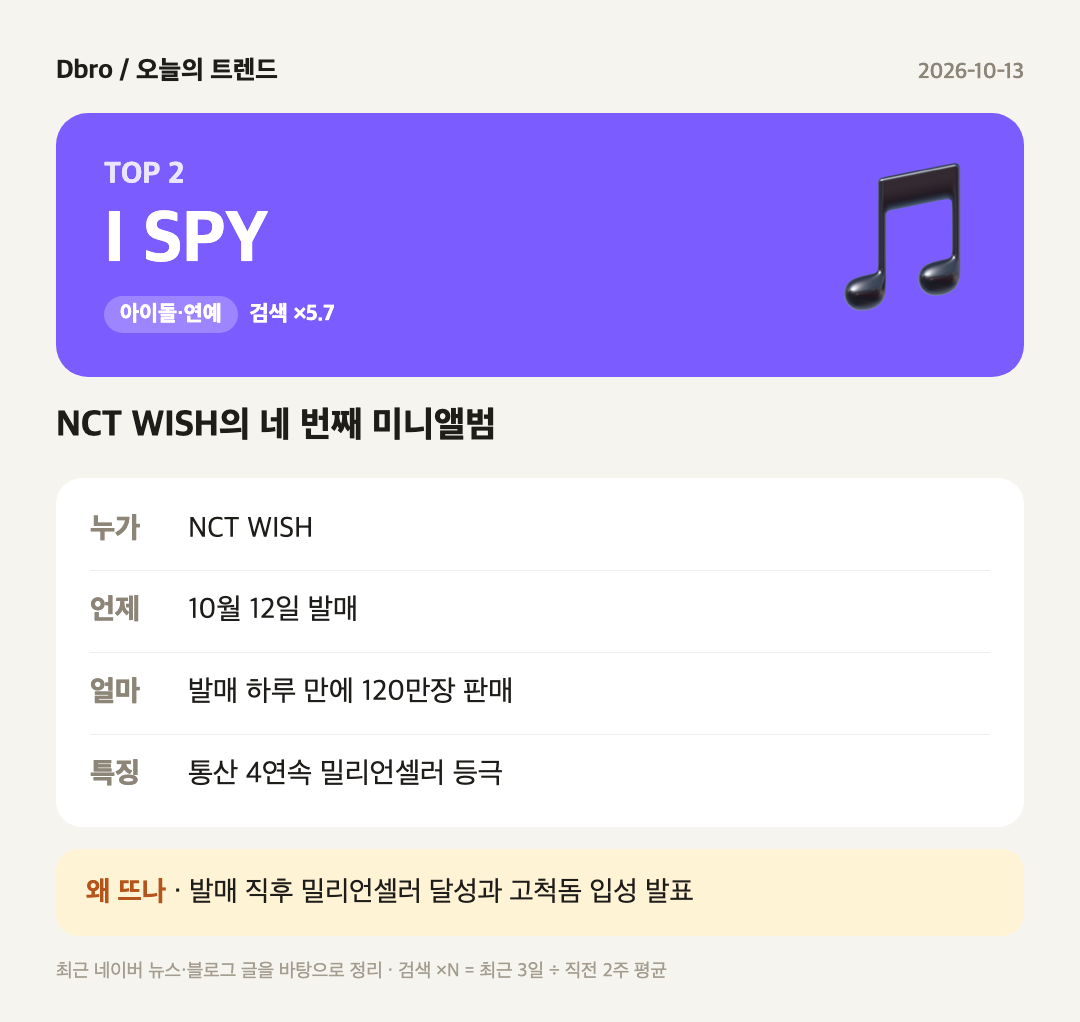
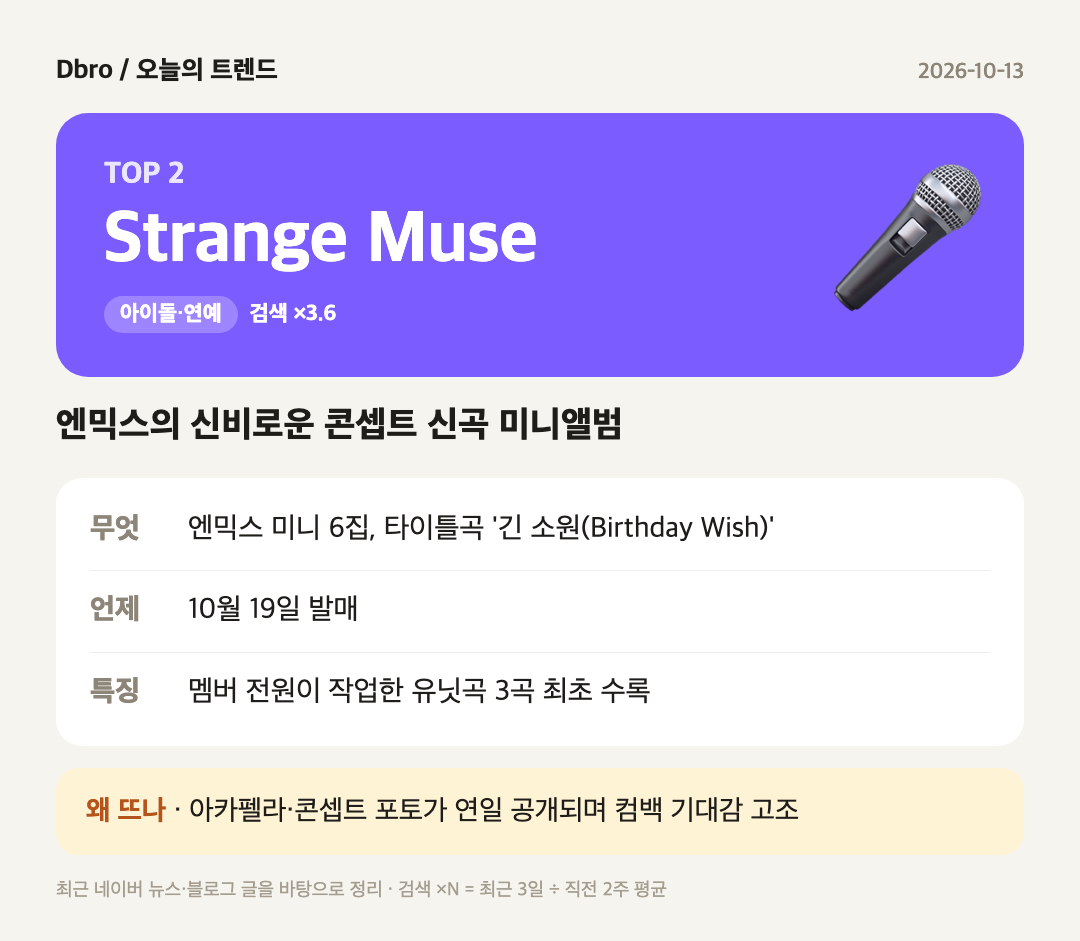
트렌드: TOP 3 는 신규 키워드만(30일 내 소개분 제외), 계속 뜨는 건 '여전히 화제' 한 줄, 사진 생성 1회 재시도. 10/13 트렌드 교체

diff --git a/_posts/2026-10-13-trend.md b/_posts/2026-10-13-trend.md
@@ -1,58 +1,61 @@
 ---
 layout: post
-title: "[트렌드] 오늘 뜨는 것: 쿠가세 · I SPY · 한정선 피스타치오 찹쌀떡"
+title: "[트렌드] 오늘 뜨는 것: 발마칸 롱코트 · Strange Muse · 안원잘부"
 date: 2026-10-13 12:30:00 +0900
 categories: [trend]
-tags: ["트렌드", "소비·생활", "아이돌·연예", "푸드", "쿠가세", "I SPY", "한정선 피스타치오 찹쌀떡"]
-description: "쿠가세: 쿠팡이 연 2회 여는 가전·디지털 할인 행사 / I SPY: NCT WISH의 네 번째 미니앨범 / 한정선 피스타치오 찹쌀떡: GS25가 내놓은 한정선 찹쌀떡 2탄 신제품"
-scores: {"쿠가세": 7.04, "I SPY": 5.7, "한정선 피스타치오 찹쌀떡": 1.69}
-picks: [["쿠가세", "소비·생활"], ["I SPY", "아이돌·연예"], ["한정선 피스타치오 찹쌀떡", "푸드"]]
+tags: ["트렌드", "패션", "아이돌·연예", "밈·유행어", "발마칸 롱코트", "Strange Muse", "안원잘부"]
+description: "발마칸 롱코트: 어깨선이 자연스럽게 떨어지는 핸드메이드 겨울 코트 / Strange Muse: 엔믹스의 신비로운 콘셉트 신곡 미니앨범 / 안원잘부: 리센느 멤버 원이의 개인 유튜브 채널 줄임말"
+scores: {"발마칸 롱코트": 99.0, "Strange Muse": 3.58, "안원잘부": 2.26}
+picks: [["발마칸 롱코트", "패션"], ["Strange Muse", "아이돌·연예"], ["안원잘부", "밈·유행어"]]
 ---
 ![2026-10-13 오늘의 트렌드 TOP 3]({{ '/assets/cards/2026-10-13_trend.png' | relative_url }})
 
-## 1. 🛒 쿠가세
+## 1. 🧥 발마칸 롱코트
 
-*소비·생활 · 검색 ×7.0*
+*패션 · 새로 등장*
 
-**쿠팡이 연 2회 여는 가전·디지털 할인 행사**
+**어깨선이 자연스럽게 떨어지는 핸드메이드 겨울 코트**
 
-- **언제** 10월 12일~25일 진행
-- **특징** 삼성·LG·애플 등 300여개 브랜드 참여
-- **특징** 매일 오후 2시 한정 수량 특가 판매
-- **얼마** 특가 상품 400여개 구성
+- **무엇** 트리밍버드 '트라움 발마칸 롱코트'가 대표 상품
+- **얼마** 40만원대
+- **특징** 출시 1분 만에 품절되는 인기 상품
 
-> 왜 뜨나: 하반기 할인 시작과 매일 오픈런 특가로 화제
+> 왜 뜨나: 셀럽들 사복 룩으로 소개되며 다시 주목받는 중
 
-![쿠가세 설명 카드]({{ '/assets/cards/2026-10-13_trend_1.png' | relative_url }})
+![발마칸 롱코트 설명 카드]({{ '/assets/cards/2026-10-13_trend_1.png' | relative_url }})
 
-## 2. 🎵 I SPY
+## 2. 🎤 Strange Muse
 
-*아이돌·연예 · 검색 ×5.7*
+*아이돌·연예 · 검색 ×3.6*
 
-**NCT WISH의 네 번째 미니앨범**
+**엔믹스의 신비로운 콘셉트 신곡 미니앨범**
 
-- **누가** NCT WISH
-- **언제** 10월 12일 발매
-- **얼마** 발매 하루 만에 120만장 판매
-- **특징** 통산 4연속 밀리언셀러 등극
+- **무엇** 엔믹스 미니 6집, 타이틀곡 '긴 소원(Birthday Wish)'
+- **언제** 10월 19일 발매
+- **특징** 멤버 전원이 작업한 유닛곡 3곡 최초 수록
 
-> 왜 뜨나: 발매 직후 밀리언셀러 달성과 고척돔 입성 발표
+> 왜 뜨나: 아카펠라·콘셉트 포토가 연일 공개되며 컴백 기대감 고조
 
-![I SPY 설명 카드]({{ '/assets/cards/2026-10-13_trend_2.png' | relative_url }})
+![Strange Muse 설명 카드]({{ '/assets/cards/2026-10-13_trend_2.png' | relative_url }})
 
-## 3. 🍡 한정선 피스타치오 찹쌀떡
+## 3. 📹 안원잘부
 
-*푸드 · 검색 ×1.7*
+*밈·유행어 · 검색 ×2.3*
 
-**GS25가 내놓은 한정선 찹쌀떡 2탄 신제품**
+**리센느 멤버 원이의 개인 유튜브 채널 줄임말**
 
-- **누가** GS25·로로멜로·한정선 협업
-- **얼마** 가격 3900원
-- **언제** 10월 15일부터 전국 매장 판매
-- **특징** 전작 요거트 찹쌀떡 70만개 판매 후속작
+- **무엇** '안녕하세요원이입니다잘부탁드립니다'의 줄임말
+- **특징** '거제 야호' 등 유행어를 탄생시킨 예능형 콘텐츠
 
-> 왜 뜨나: 전작 품절 대란에 이어 사전예약 오픈런으로 화제
+> 왜 뜨나: 24시간 편집분 복구 불가 공지에 팬들이 유쾌하게 반응하며 화제
 
-![한정선 피스타치오 찹쌀떡 설명 카드]({{ '/assets/cards/2026-10-13_trend_3.png' | relative_url }})
+![안원잘부 설명 카드]({{ '/assets/cards/2026-10-13_trend_3.png' | relative_url }})
+
+## 🔥 여전히 화제
+
+이미 소개했지만 오늘도 검색이 크게 늘어난 키워드입니다.
+
+- **🛒 쿠가세** (소비·생활, 검색 ×7.0) — 쿠팡이 1년에 2번 여는 가전·디지털 할인 행사. 특가 상품을 400여개로 늘리고 매일 오후 2시 한정판매 코너를 새로 열었다
+- **🔍 I SPY** (아이돌·연예, 검색 ×5.7) — NCT WISH의 네 번째 미니앨범 타이틀곡. 발매 하루 만에 4연속 밀리언셀러를 달성하고 내년 고척돔 공연도 확정됐다
 
 ※ 네이버 검색어 트렌드(상대값, 어제까지)와 최근 뉴스·블로그 글을 바탕으로 정리했습니다.
